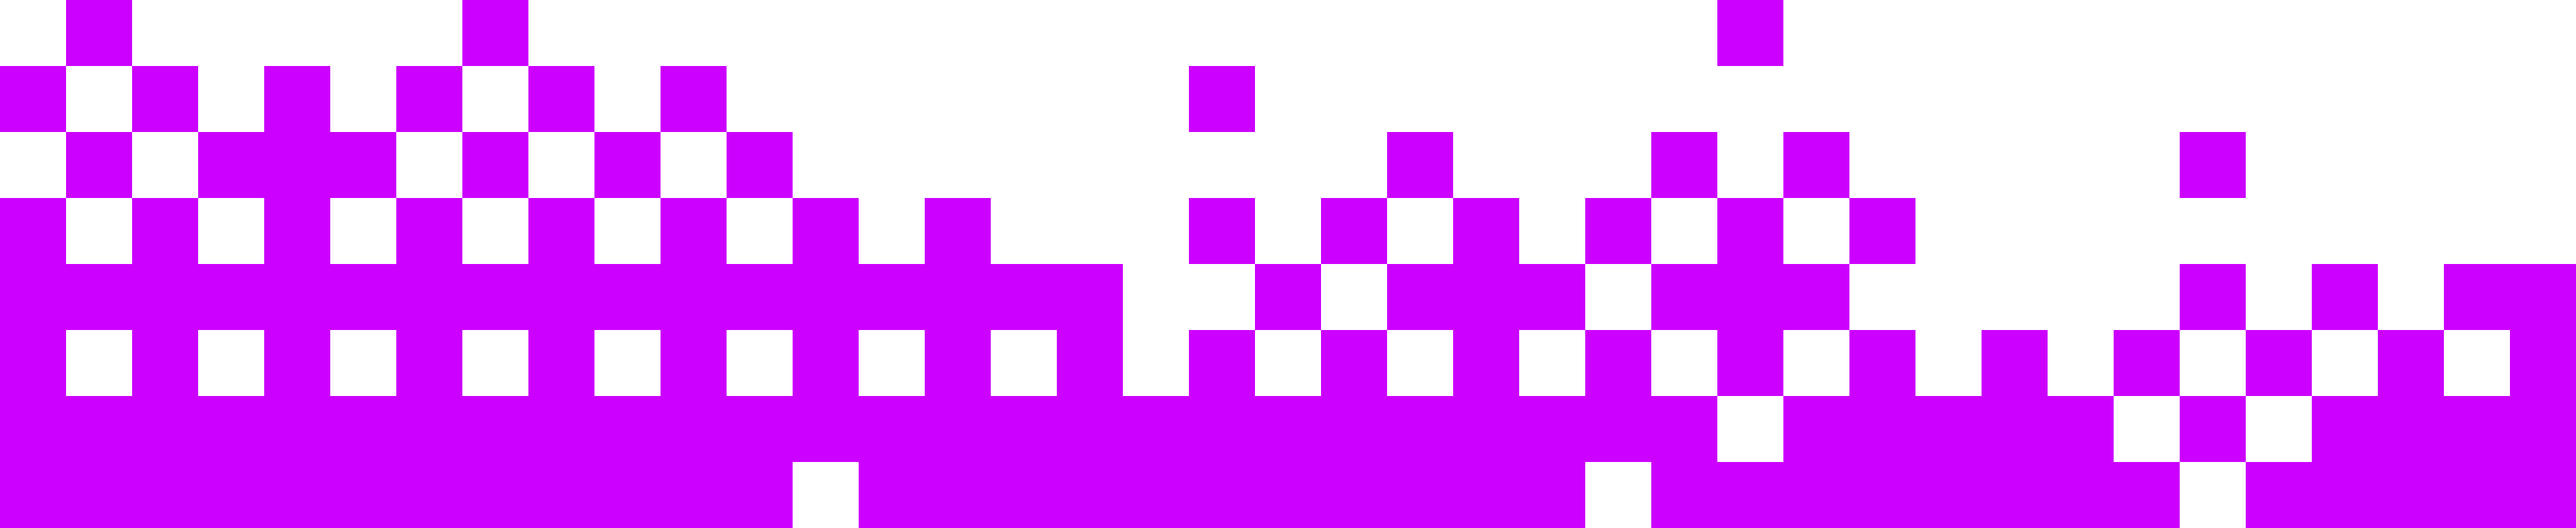
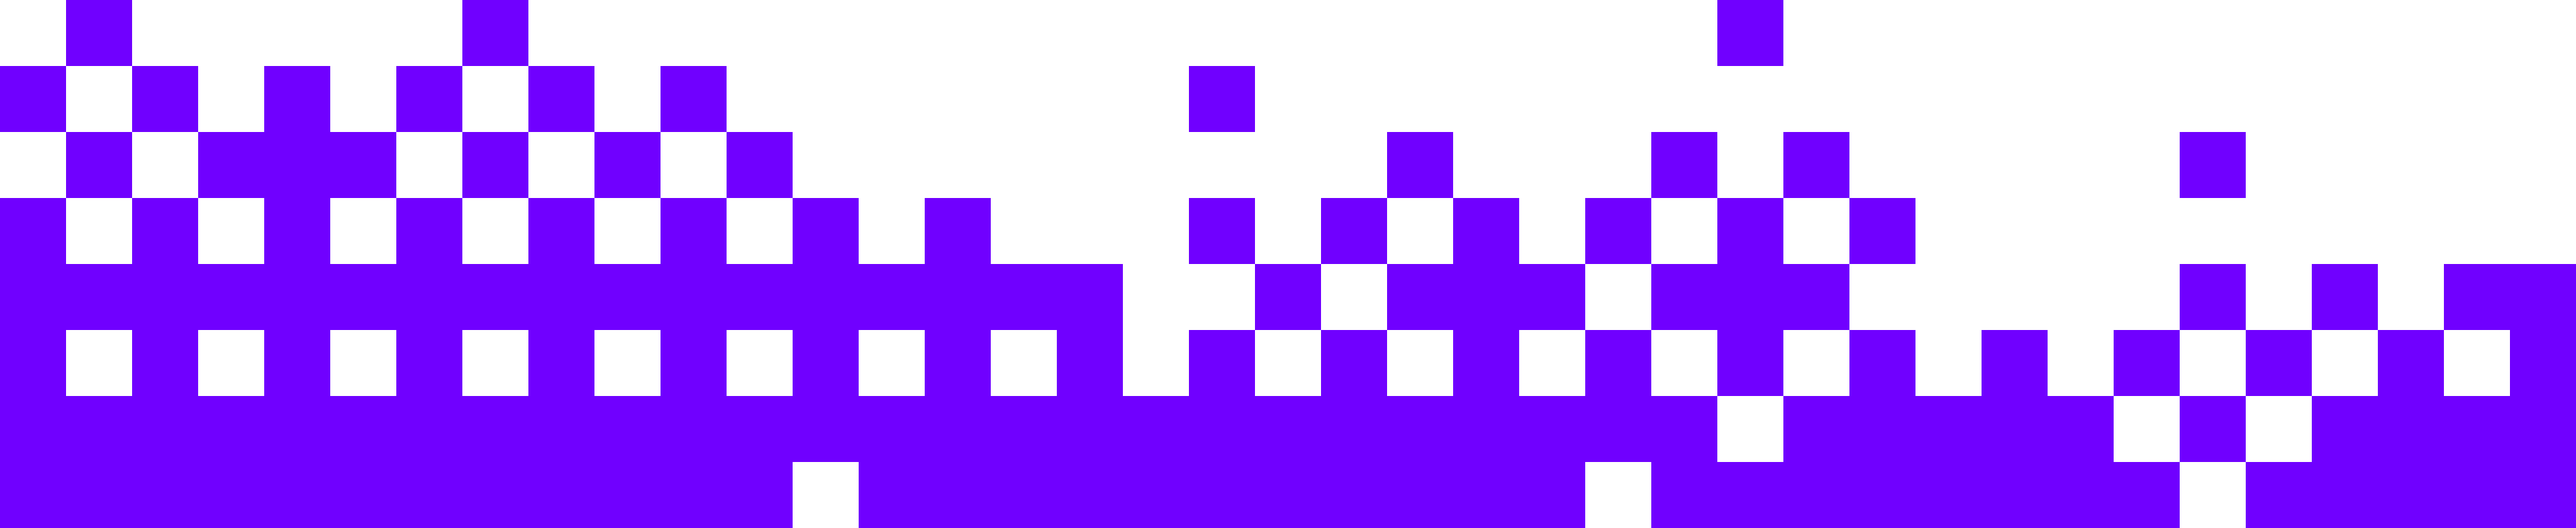
change color

diff --git a/tailwind.config.js b/tailwind.config.js
@@ -101,7 +101,7 @@ module.exports = {
         },
         team: {
           top: "#7C4FFF",
-          bottom: "#FF4F79",
+          bottom: "#FF7777",
           green: "#C9F9BE",
           pink: "#F7CDE0",
           yellow: "#FCFBB6",
@@ -138,7 +138,7 @@ module.exports = {
           bottom: "#FC7AD5",
         },
         faq: {
-          top: "#CC00FF",
+          top: "#7000FF",
           bottom: "#FF8A65",
           middle: "#441797",
           question: "#F08DCF",
